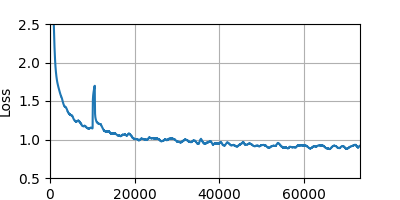
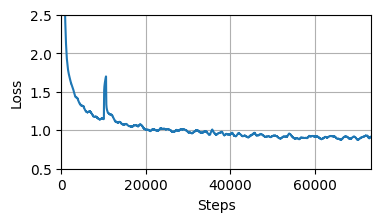
Add xlabel to loss curves

Changed region(s): [[0.0, 0.03, 0.9816, 1.0]]

diff --git a/losscurve.py b/losscurve.py
@@ -42,9 +42,9 @@ if __name__ == "__main__":
 
     plt.figure(figsize=(4, 2))  # Increase the size as needed
     sns.lineplot(data=df[SMOOTHED_LOSS_COLUMN])
-    plt.xlabel('Steps')
     plt.xlim(left=0, right=df.index.max())
     plt.ylim(args.ylim[0], args.ylim[1])
     plt.ylabel('Loss')
+    plt.xlabel('Steps')
     plt.grid(True)
-    plt.savefig(args.output)
+    plt.savefig(args.output, bbox_inches='tight')
